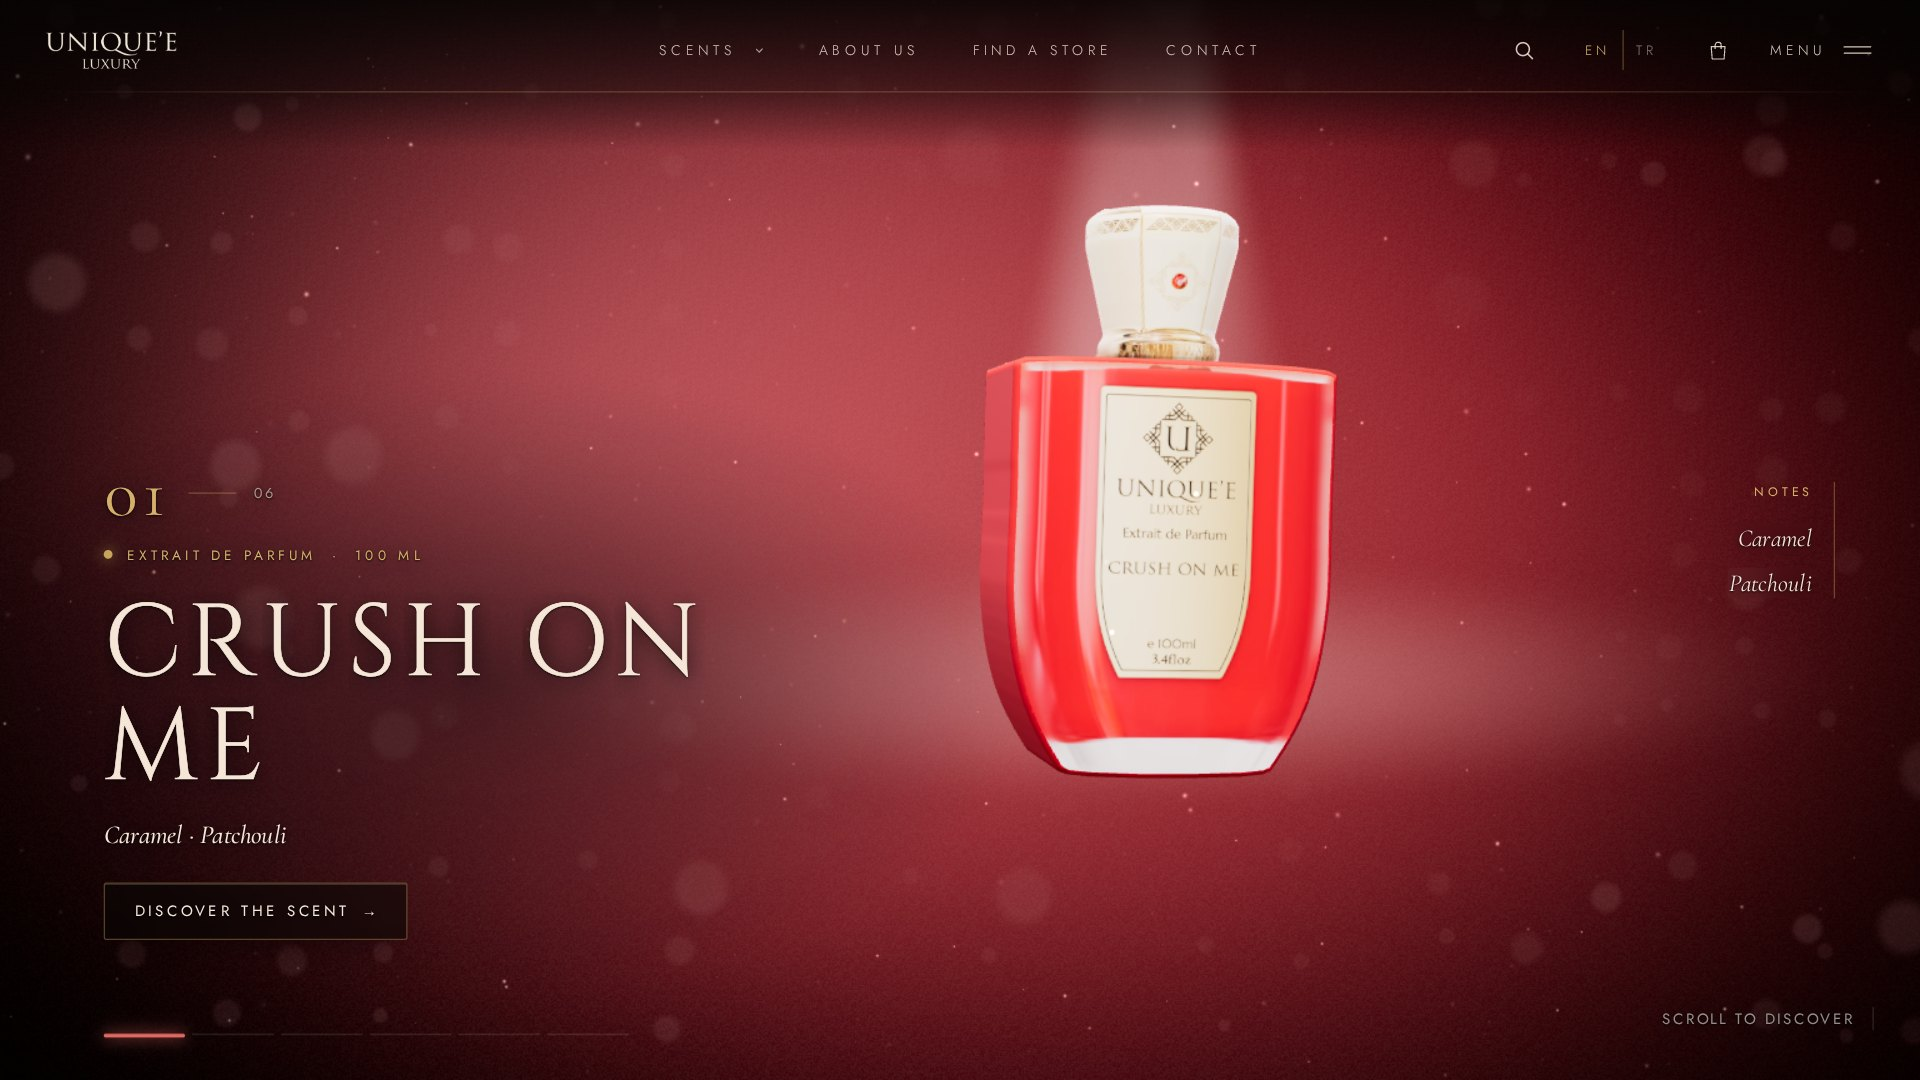
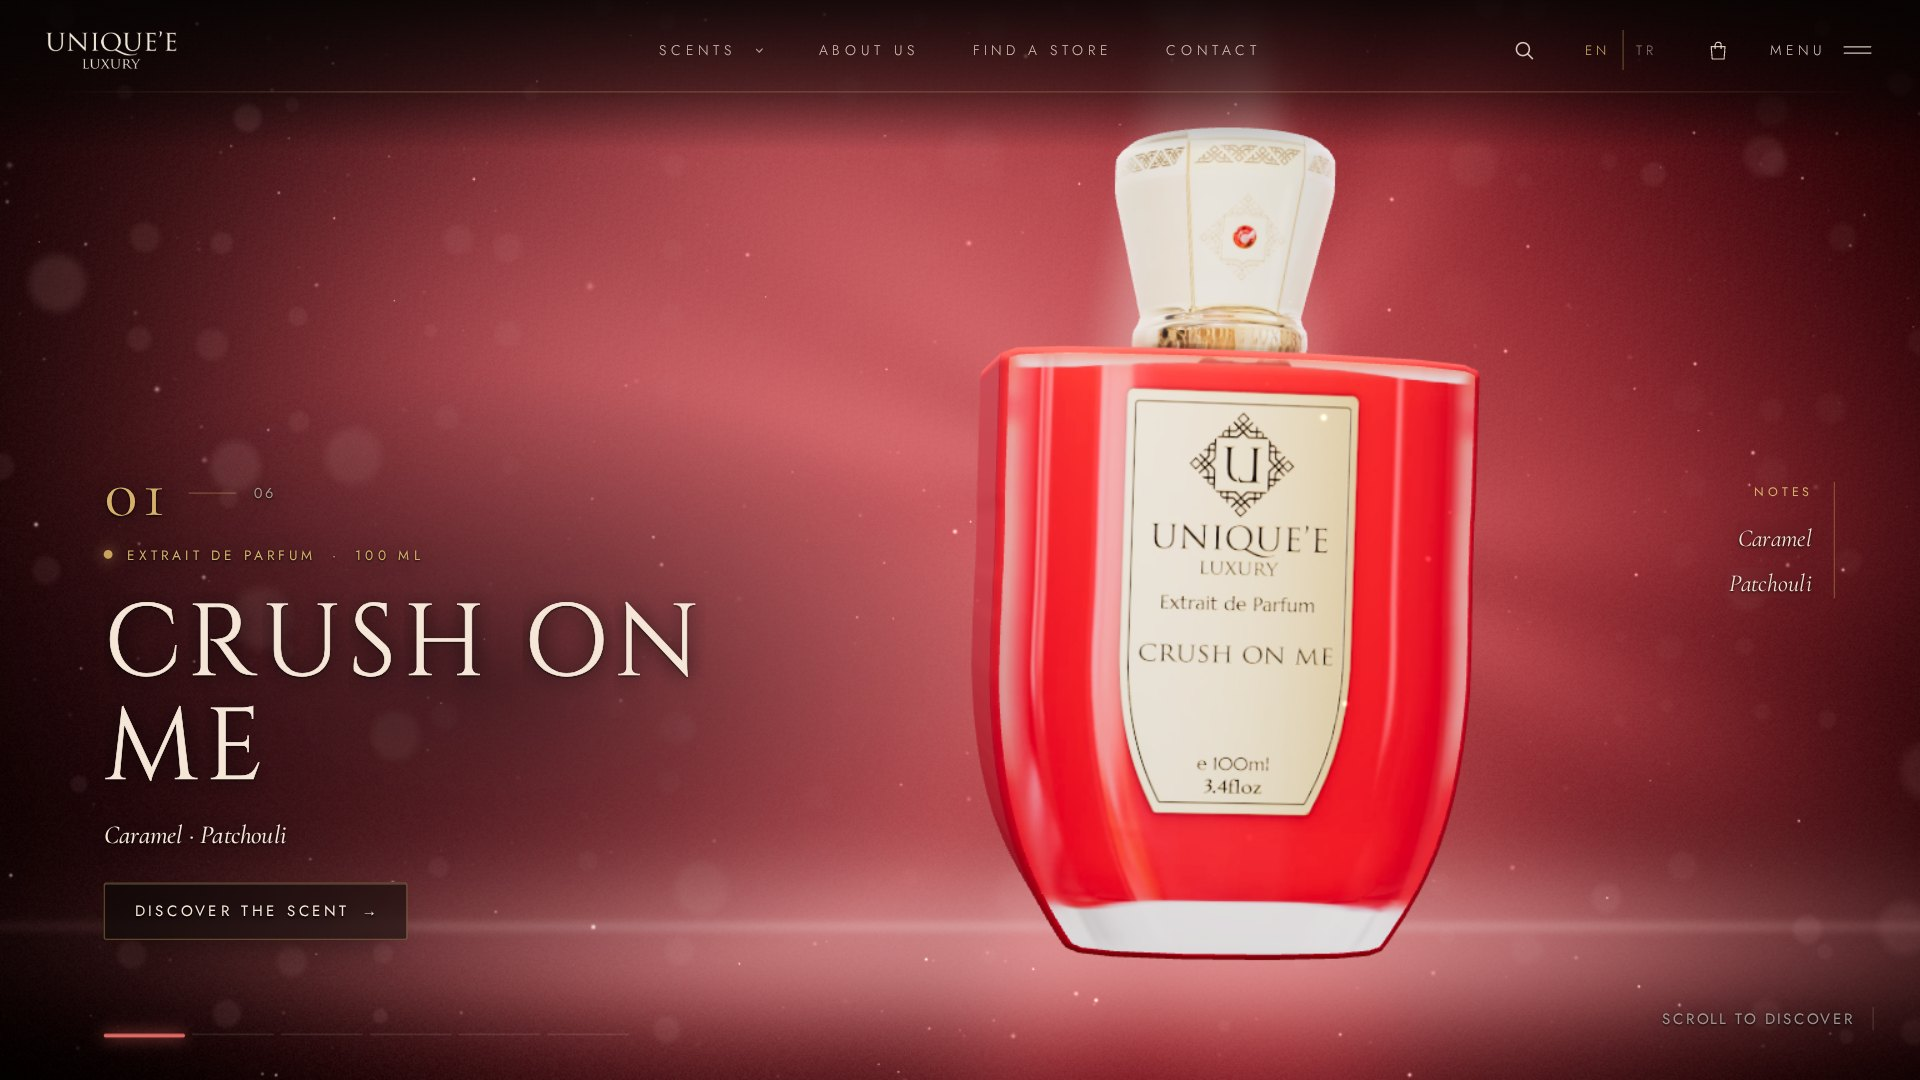
Unique'e Luxury: büyük şişe ve parlak zemin sahnesi
Ana sayfada şişe ekranın büyük kısmını kaplar, etiketi düz ve okunur.
Arka planda ürün renginde ışık patlaması, ayağında ışık havuzu, cilalı
zemin ve yansıma (rise düzeni).

Claude-Session: https://claude.ai/code/session_017jT9ScQr3mTZ7wu3auQ4Cz

diff --git a/demolar/unique/src/BackgroundMaterial.js b/demolar/unique/src/BackgroundMaterial.js
@@ -33,6 +33,7 @@ export const BackgroundMaterial = shaderMaterial(
     u_sceneMix: 1,
     u_sceneOn: 0,
     u_baseY: 0.4,
+    u_floor: 0,
     u_bottleH: 0.35,
     u_sceneX: 0.5,
     u_sceneLight: 1,
@@ -69,6 +70,7 @@ export const BackgroundMaterial = shaderMaterial(
     uniform float u_sceneMix;
     uniform float u_sceneOn;
     uniform float u_baseY;
+    uniform float u_floor;
     uniform float u_bottleH;
     uniform float u_sceneX;
     uniform float u_sceneLight;
@@ -260,7 +262,29 @@ export const BackgroundMaterial = shaderMaterial(
 
       // Kutunun altında yumuşak ışık havuzu.
       float pool = 1. - smoothstep(0., mix(0.45, 0.3, u_studio), length((vUv - vec2(u_focusX, mix(0.1, 0.37, u_studio))) * vec2(u_aspect * 0.45, 2.4)));
-      base += light * pool * mix(0.12, 0.16, u_studio) * u_stage * (1. - u_sceneOn);
+      base += light * pool * mix(0.12, 0.16, u_studio) * u_stage * (1. - u_sceneOn) * (1. - u_floor);
+
+      // Parlak zemin (theme.carousel "rise"): ürünün arkasında renginde ışık patlaması, ayağının altında
+      // koyu, cilalı bir zemin; ayakta ışık havuzu, zeminde ürünün renginde yumuşak yansıma ve ufuk parıltısı.
+      if (u_floor > 0.001) {
+        vec3 tint = u_glow / max(max(u_glow.r, max(u_glow.g, u_glow.b)), 0.001);
+        float bw = max(u_bottleH, 0.2);
+        float fdx = (vUv.x - u_sceneX) * u_aspect;
+        float fy = vUv.y - u_baseY;
+        vec2 c = vec2(fdx, fy - bw * 0.52);
+        float ang = atan(c.y, c.x);
+        float rays = 0.6 + 0.4 * (0.5 + 0.5 * sin(ang * 9. + 1.7 * sin(ang * 4. + u_time * 0.08)));
+        float burst = exp(-pow(length(c / vec2(1.05, 1.2)) / (bw * 0.78), 2.)) * rays;
+        base += mix(tint, vec3(1.), 0.2) * burst * 0.2 * u_floor * u_stage;
+        float below = 1. - smoothstep(-0.02, 0.012, fy);
+        base *= mix(1., 0.5 + 0.5 * smoothstep(-0.4, 0., fy), below * u_floor * exp(-pow(fdx / (bw * 3.), 2.)));
+        vec2 q = vec2(fdx / (bw * 0.95), (fy + 0.018) / (bw * 0.1));
+        base += mix(tint, vec3(1.), 0.45) * exp(-dot(q, q)) * 0.3 * u_floor * u_stage;
+        float refl = exp(-pow(fdx / (bw * 0.24), 4.)) * below * exp(fy / (bw * 0.3));
+        base += tint * refl * 0.14 * u_floor * u_stage;
+        float hz = exp(-pow(fy / 0.006, 2.)) * exp(-pow(fdx / (bw * 1.3), 2.));
+        base += mix(tint, vec3(1.), 0.6) * hz * 0.1 * u_floor * u_stage;
+      }
 
       // Süzülen bokeh ışıkları (iki derinlik katmanı).
       for (int L = 0; L < 2; L++) {

diff --git a/hope-demo/src/BackgroundMaterial.js b/hope-demo/src/BackgroundMaterial.js
@@ -33,6 +33,7 @@ export const BackgroundMaterial = shaderMaterial(
     u_sceneMix: 1,
     u_sceneOn: 0,
     u_baseY: 0.4,
+    u_floor: 0,
     u_bottleH: 0.35,
     u_sceneX: 0.5,
     u_sceneLight: 1,
@@ -69,6 +70,7 @@ export const BackgroundMaterial = shaderMaterial(
     uniform float u_sceneMix;
     uniform float u_sceneOn;
     uniform float u_baseY;
+    uniform float u_floor;
     uniform float u_bottleH;
     uniform float u_sceneX;
     uniform float u_sceneLight;
@@ -260,7 +262,29 @@ export const BackgroundMaterial = shaderMaterial(
 
       // Kutunun altında yumuşak ışık havuzu.
       float pool = 1. - smoothstep(0., mix(0.45, 0.3, u_studio), length((vUv - vec2(u_focusX, mix(0.1, 0.37, u_studio))) * vec2(u_aspect * 0.45, 2.4)));
-      base += light * pool * mix(0.12, 0.16, u_studio) * u_stage * (1. - u_sceneOn);
+      base += light * pool * mix(0.12, 0.16, u_studio) * u_stage * (1. - u_sceneOn) * (1. - u_floor);
+
+      // Parlak zemin (theme.carousel "rise"): ürünün arkasında renginde ışık patlaması, ayağının altında
+      // koyu, cilalı bir zemin; ayakta ışık havuzu, zeminde ürünün renginde yumuşak yansıma ve ufuk parıltısı.
+      if (u_floor > 0.001) {
+        vec3 tint = u_glow / max(max(u_glow.r, max(u_glow.g, u_glow.b)), 0.001);
+        float bw = max(u_bottleH, 0.2);
+        float fdx = (vUv.x - u_sceneX) * u_aspect;
+        float fy = vUv.y - u_baseY;
+        vec2 c = vec2(fdx, fy - bw * 0.52);
+        float ang = atan(c.y, c.x);
+        float rays = 0.6 + 0.4 * (0.5 + 0.5 * sin(ang * 9. + 1.7 * sin(ang * 4. + u_time * 0.08)));
+        float burst = exp(-pow(length(c / vec2(1.05, 1.2)) / (bw * 0.78), 2.)) * rays;
+        base += mix(tint, vec3(1.), 0.2) * burst * 0.2 * u_floor * u_stage;
+        float below = 1. - smoothstep(-0.02, 0.012, fy);
+        base *= mix(1., 0.5 + 0.5 * smoothstep(-0.4, 0., fy), below * u_floor * exp(-pow(fdx / (bw * 3.), 2.)));
+        vec2 q = vec2(fdx / (bw * 0.95), (fy + 0.018) / (bw * 0.1));
+        base += mix(tint, vec3(1.), 0.45) * exp(-dot(q, q)) * 0.3 * u_floor * u_stage;
+        float refl = exp(-pow(fdx / (bw * 0.24), 4.)) * below * exp(fy / (bw * 0.3));
+        base += tint * refl * 0.14 * u_floor * u_stage;
+        float hz = exp(-pow(fy / 0.006, 2.)) * exp(-pow(fdx / (bw * 1.3), 2.));
+        base += mix(tint, vec3(1.), 0.6) * hz * 0.1 * u_floor * u_stage;
+      }
 
       // Süzülen bokeh ışıkları (iki derinlik katmanı).
       for (int L = 0; L < 2; L++) {

diff --git a/demolar/unique/src/Carousel.jsx b/demolar/unique/src/Carousel.jsx
@@ -72,13 +72,14 @@ export function arcPose(d, aspect, time, i) {
       const ad2 = Math.min(ad, 1.5);
       // Komşu şişe yalnızca geçişte görünür; yerine oturunca ekran kenarında yarım şişe kalmaz.
       const vis = 1 - MathUtils.smoothstep(ad, 0.62, 0.9);
-      const sc = base * (phone ? 1.32 : 1.78) * (1 - 0.22 * Math.min(ad, 1)) * vis;
+      const sc = base * (phone ? 1.85 : 2.55) * (1 - 0.22 * Math.min(ad, 1)) * vis;
       return {
-        x: phone ? 0 : 2.1 * MathUtils.clamp(aspect / 1.9, 0.44, 1),
-        y: (phone ? 0.9 : 0.3) - d * (phone ? 9.5 : 8.6) + Math.sin(time * 0.8) * 0.06 * focus,
+        x: phone ? 0 : 2.75 * MathUtils.clamp(aspect / 1.9, 0.44, 1),
+        y: (phone ? 0.55 : -0.28) - d * (phone ? 12.5 : 12) + Math.sin(time * 0.8) * 0.05 * focus,
         z: -ad2 * 2.2,
-        rotX: 0.03,
-        rotY: d * Math.PI + (focus > 0 ? Math.sin(time * 0.45) * 0.2 * focus : 0),
+        rotX: 0.01,
+        // Yerindeyken neredeyse tam karşıdan: etiket düz ve okunur.
+        rotY: d * Math.PI + (focus > 0 ? Math.sin(time * 0.45) * 0.09 * focus : 0),
         rotZ: -0.08 * d,
         scale: sc,
       };

diff --git a/hope-demo/src/Carousel.jsx b/hope-demo/src/Carousel.jsx
@@ -72,13 +72,14 @@ export function arcPose(d, aspect, time, i) {
       const ad2 = Math.min(ad, 1.5);
       // Komşu şişe yalnızca geçişte görünür; yerine oturunca ekran kenarında yarım şişe kalmaz.
       const vis = 1 - MathUtils.smoothstep(ad, 0.62, 0.9);
-      const sc = base * (phone ? 1.32 : 1.78) * (1 - 0.22 * Math.min(ad, 1)) * vis;
+      const sc = base * (phone ? 1.85 : 2.55) * (1 - 0.22 * Math.min(ad, 1)) * vis;
       return {
-        x: phone ? 0 : 2.1 * MathUtils.clamp(aspect / 1.9, 0.44, 1),
-        y: (phone ? 0.9 : 0.3) - d * (phone ? 9.5 : 8.6) + Math.sin(time * 0.8) * 0.06 * focus,
+        x: phone ? 0 : 2.75 * MathUtils.clamp(aspect / 1.9, 0.44, 1),
+        y: (phone ? 0.55 : -0.28) - d * (phone ? 12.5 : 12) + Math.sin(time * 0.8) * 0.05 * focus,
         z: -ad2 * 2.2,
-        rotX: 0.03,
-        rotY: d * Math.PI + (focus > 0 ? Math.sin(time * 0.45) * 0.2 * focus : 0),
+        rotX: 0.01,
+        // Yerindeyken neredeyse tam karşıdan: etiket düz ve okunur.
+        rotY: d * Math.PI + (focus > 0 ? Math.sin(time * 0.45) * 0.09 * focus : 0),
         rotZ: -0.08 * d,
         scale: sc,
       };

diff --git a/demolar/unique/src/Background.jsx b/demolar/unique/src/Background.jsx
@@ -11,6 +11,7 @@ import { useStore } from "./store";
 import { THEME } from "./theme";
 
 const SOLO = ["solo", "orbit", "rise"].includes(THEME.carousel);
+const RISE = THEME.carousel === "rise";
 const P = new Vector3();
 const Q = new Vector3();
 // Ürünlerin sahne fotoğrafları (products[].stage): bir kez yüklenir, ürünler arasında paylaşılır.
@@ -170,6 +171,10 @@ export default function Background() {
     // Canlı sahne (stage.vivid): fotoğraf olduğu gibi net ve parlak; karartma ve bulanıklık kalkar.
     l.vivid = MathUtils.damp(l.vivid ?? 0, stageOf?.vivid ? 1 : 0, 2.5, dt);
     m.u_vivid = l.vivid;
+    // Parlak zemin (rise): vitrinde tam; detayda (ürün başka yere geçer), Ritüel ve mağazada söner.
+    const floorT = RISE && l.baseY != null ? (st.detail ? 0 : 1) * (1 - scrollState.ritualIn) * (1 - scrollState.shopIn) : 0;
+    l.floor = MathUtils.damp(l.floor ?? 0, floorT, 3, dt);
+    m.u_floor = l.floor;
     material.current.u_studio = SOLO ? 1 : 0;
     material.current.u_dark = sceneState.spotlight;
 

diff --git a/hope-demo/src/Background.jsx b/hope-demo/src/Background.jsx
@@ -11,6 +11,7 @@ import { useStore } from "./store";
 import { THEME } from "./theme";
 
 const SOLO = ["solo", "orbit", "rise"].includes(THEME.carousel);
+const RISE = THEME.carousel === "rise";
 const P = new Vector3();
 const Q = new Vector3();
 // Ürünlerin sahne fotoğrafları (products[].stage): bir kez yüklenir, ürünler arasında paylaşılır.
@@ -170,6 +171,10 @@ export default function Background() {
     // Canlı sahne (stage.vivid): fotoğraf olduğu gibi net ve parlak; karartma ve bulanıklık kalkar.
     l.vivid = MathUtils.damp(l.vivid ?? 0, stageOf?.vivid ? 1 : 0, 2.5, dt);
     m.u_vivid = l.vivid;
+    // Parlak zemin (rise): vitrinde tam; detayda (ürün başka yere geçer), Ritüel ve mağazada söner.
+    const floorT = RISE && l.baseY != null ? (st.detail ? 0 : 1) * (1 - scrollState.ritualIn) * (1 - scrollState.shopIn) : 0;
+    l.floor = MathUtils.damp(l.floor ?? 0, floorT, 3, dt);
+    m.u_floor = l.floor;
     material.current.u_studio = SOLO ? 1 : 0;
     material.current.u_dark = sceneState.spotlight;
 

diff --git a/demo-fabrikasi/KONTROL-LISTESI.md b/demo-fabrikasi/KONTROL-LISTESI.md
@@ -160,3 +160,4 @@ Her demo markaya gönderilmeden önce bu liste baştan sona kontrol edilir. List
 | Unique | Şişelerin arkası bulanık ve yazısızdı; her siteye kendi 3B kaydırma tasarımı istendi | `foto.glassBack`: arka yüz ön fotoğrafın aynası + etiket stilinde arka etiket (ad, notalar, hacim, Made in Türkiye), yan yüzler parfüm renginde; Chicelle 50 ml. `theme.carousel: "orbit"`: döner platform vitrini denendi. Seçili özellik düğmesi yazısı okunur (her iki markada) |
 | Unique | Döner platformda şişeler iç içe görünüyordu, premium değildi | `theme.carousel: "rise"`: tek şişe ışık huzmesinde; kaydırınca dönerek yukarı çıkar, sıradaki aşağıdan dönerek gelir; komşular yalnızca geçişte görünür, kaide yok. Masaüstü + telefon + geçiş karesi kontrol edildi |
 | Unique | Ana sayfada şişe küçüktü; site İngilizce açılsın; markanın mağaza bulucusu gibi önemli bilgiler eksikti | Şişe masaüstünde ~%30, telefonda ~%18 büyüdü. `defaultLang: "en"` (EN önce, TR düğmesi; eski ziyaretçide kayıtlı dil sıfırlanır; `<html lang>` en). `locator`: 68 satış noktası (ülke filtresi, arama, yol tarifi, telefon, web). `contactInfo`: ABD/Türkiye adres, telefon, WhatsApp, e-posta, saatler. `aktar.library`: tam kompozisyon + çıkış tarihi (açılır). Üst menüde "Find a store". `packUnit` dile göre ("1 bottle"). Masaüstü + telefon + TR/EN kontrol edildi |
+| Unique | Ana sayfada şişe referans görseldeki gibi büyük ve detaylı olsun | Şişe ekranın ~%78'i (masaüstü sağda, telefonda ortada), yerindeyken neredeyse tam karşıdan (etiket düz). `u_floor` (rise): ürün renginde ışık patlaması, ayakta ışık havuzu, cilalı zemin, yansıma ve kısa ufuk parıltısı; detay/Ritüel/mağazada söner. Masaüstü (1915×821) + telefon kontrol edildi |

diff --git a/satis/unique-mail.md b/satis/unique-mail.md
@@ -34,7 +34,7 @@ Unique'e Luxury için kokularınızı 3D olarak sergileyen bir web sitesi hazır
 
 Kısaca neler var:
 
-- **Şişeleriniz 3D ve tek başına sahnede:** 19 kokunun tamamı kendi ürün fotoğraflarınızdan 3D olarak hazırlandı. Ana sayfada her seferinde tek bir şişe, yukarıdan vuran bir ışık huzmesinin altında süzülüyor; aşağı kaydırdıkça şişe dönerek yukarı çıkıyor, sıradaki koku aşağıdan dönerek ışığa geliyor. Sahne her kokunun renginde: Crush On Me kırmızı, Ocean The Rive lacivert, Mangonifiscent yeşil.
+- **Şişeleriniz 3D ve tek başına sahnede:** 19 kokunun tamamı kendi ürün fotoğraflarınızdan 3D olarak hazırlandı. Ana sayfada her seferinde tek bir şişe ekranı dolduracak büyüklükte, etiketinin her detayı okunur şekilde, arkasında kokunun renginde bir ışık patlaması ve altında parlak bir zeminle sahnede duruyor; aşağı kaydırdıkça şişe dönerek yukarı çıkıyor, sıradaki koku aşağıdan dönerek ışığa geliyor. Sahne her kokunun renginde: Crush On Me kırmızı, Ocean The Rive lacivert, Mangonifiscent yeşil.
 - **Şişe çevrilebiliyor:** Arkada kokunun adı, notaları ve hacmiyle etiket var.
 - **Her kokunun notaları ve hikâyesi:** Ürüne girince ana notalar, kokunun hikâyesi ve markanızı anlatan 4 kısa bölüm açılıyor.
 - **Mağaza bulucunuz sitede:** 24 ülkedeki 68 yetkili satış noktanızın tamamı; ülkeye göre filtre, arama, yol tarifi, telefon ve web bağlantıları. ABD ve Türkiye iletişim bilgileriniz, WhatsApp ve çalışma saatleri de sayfanın sonunda.
